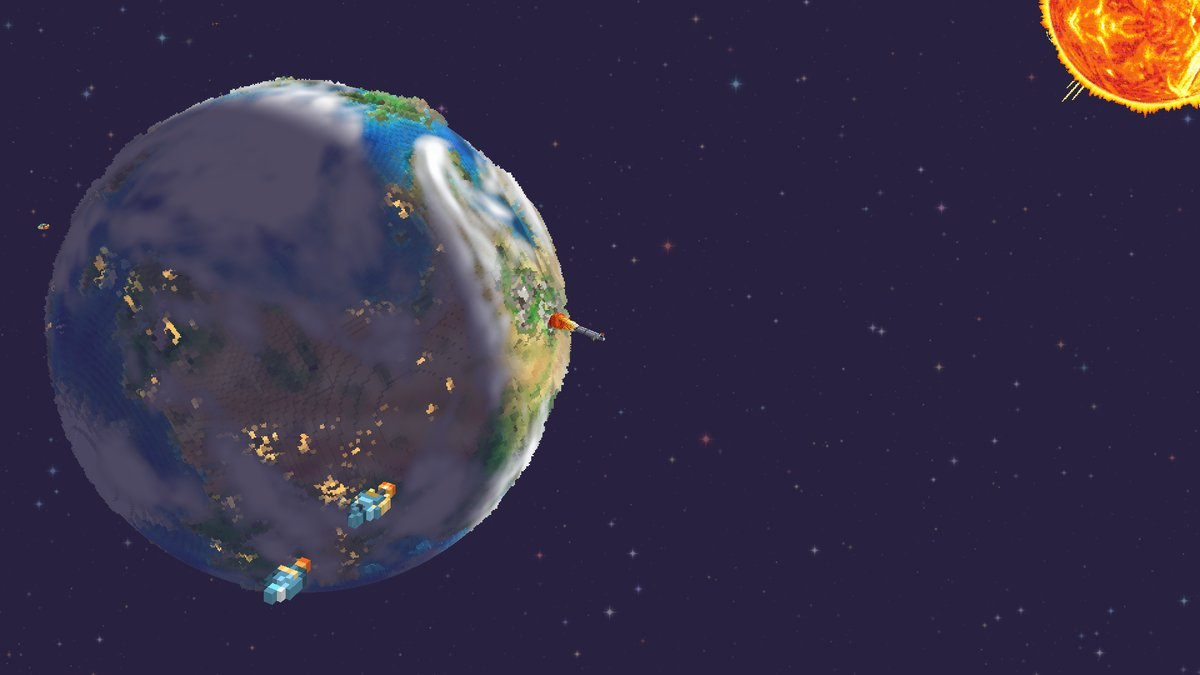
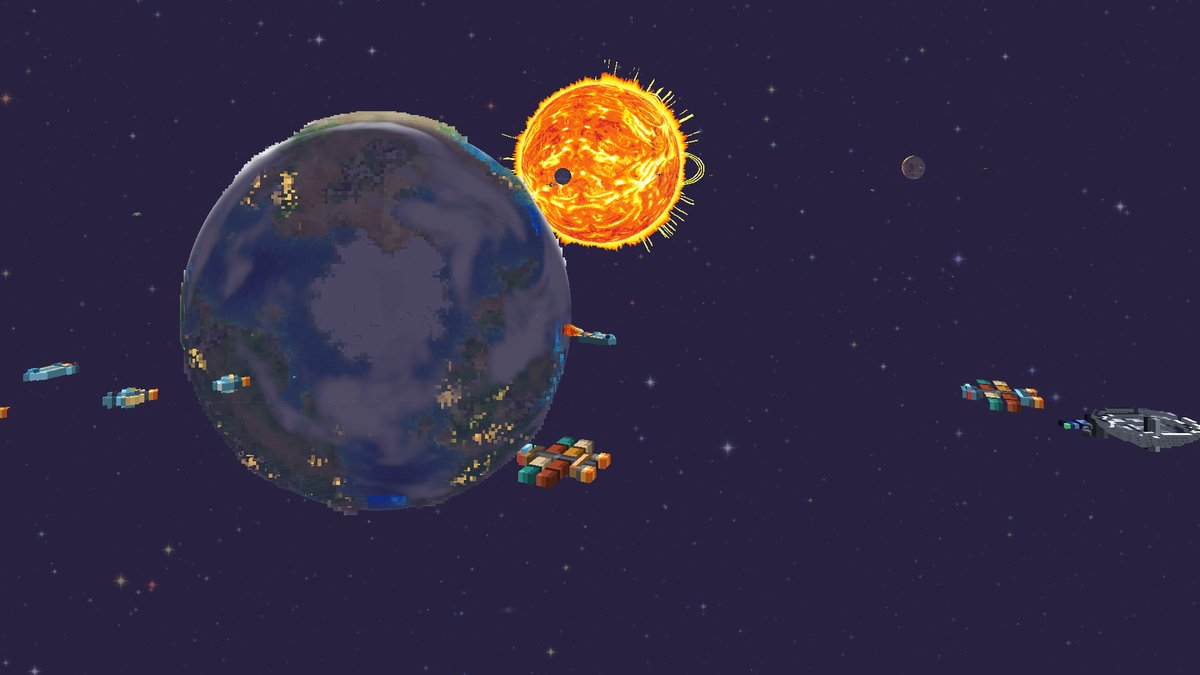
Hero: the booster launch with Lune crossing the rising Sun

diff --git a/index.html b/index.html
@@ -36,10 +36,10 @@
 
 <main id="new-worlds">
   <div class="hero">
-    <img src="img/terra-booster-launch.webp"
-         srcset="img/terra-booster-launch-960.webp 960w, img/terra-booster-launch.webp 1920w"
+    <img src="img/terra-launch-transit.webp"
+         srcset="img/terra-launch-transit-960.webp 960w, img/terra-launch-transit.webp 1920w"
          sizes="100vw" width="1920" height="1080"
-         alt="A rocket lifts off Terra on voxel booster stages, the night side lit by city lights">
+         alt="A rocket climbs off Terra's edge as the Sun rises behind it, the moon Lune crossing its face">
   </div>
 
   <div class="wrap">
